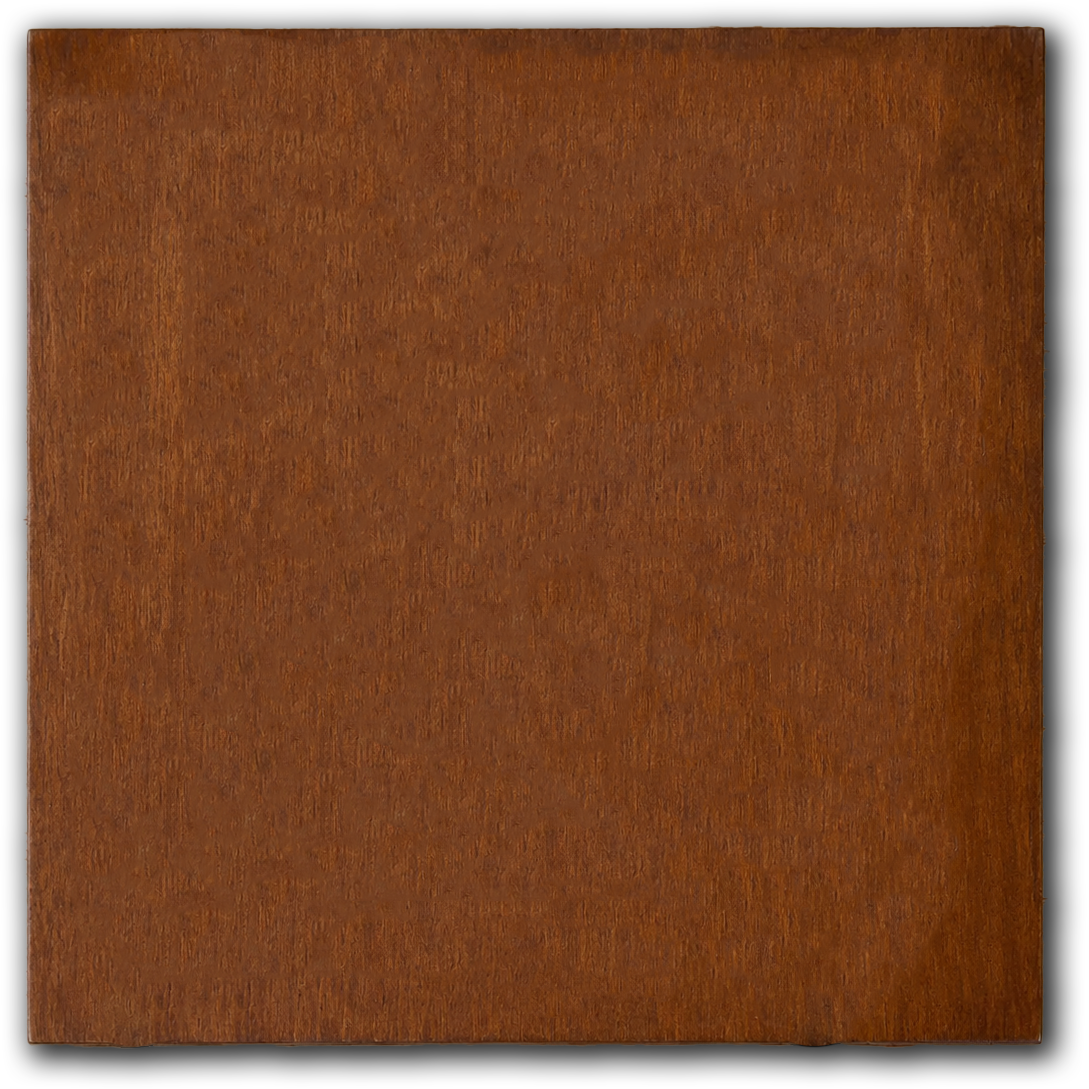
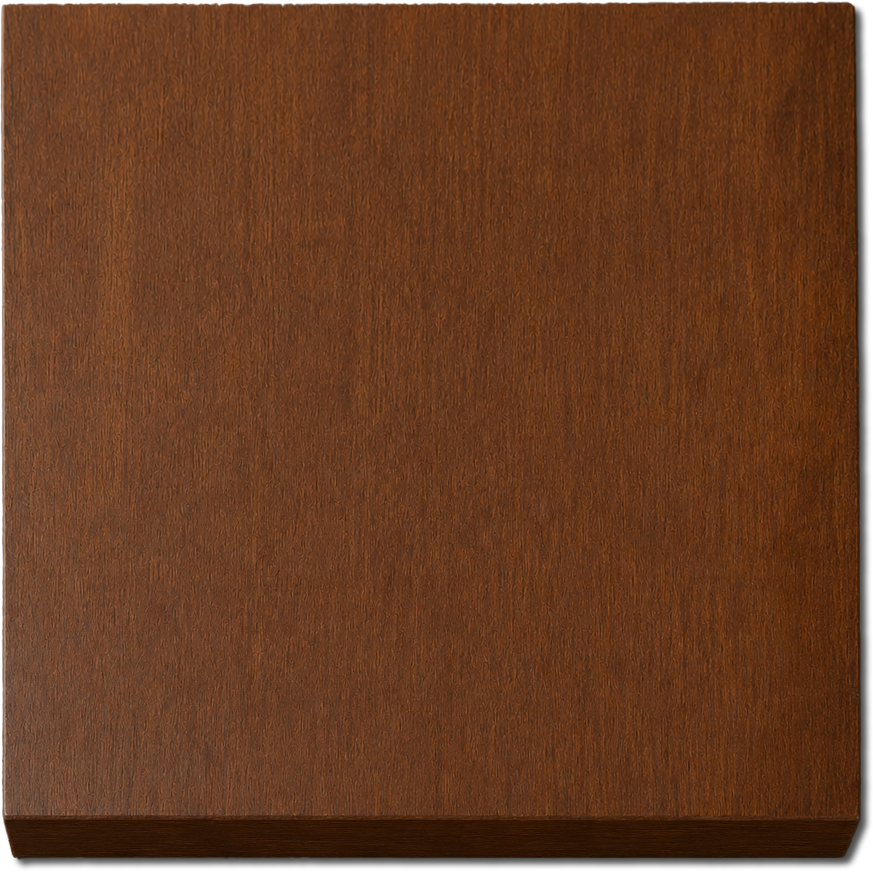
Game board is 3D now

Changed region(s): [[0.0, 0.0, 1.0, 1.0], [0.8969, 0.867, 0.9278, 0.8979], [0.0928, 0.3716, 0.1237, 0.4025]]

diff --git a/UI/Games/NineMensMorrisPage/nine_mens_morris_page.cpp b/UI/Games/NineMensMorrisPage/nine_mens_morris_page.cpp
@@ -205,7 +205,7 @@ void NineMensMorrisPage::paintEvent(QPaintEvent* event) {
     painter.setRenderHint(QPainter::Antialiasing);
     painter.setRenderHint(QPainter::SmoothPixmapTransform, true);
 
-    QRect board_rect(margin_offset - 50, margin_offset - 12, (6 * cell_spacing) + 100, (6 * cell_spacing) + 95);
+    QRect board_rect(margin_offset - 50, margin_offset - 12, (6 * cell_spacing) + 100, (6 * cell_spacing) + 110);
     drawBoardBackground(painter, board_rect, board_background);
 
     painter.setPen(Qt::black);
@@ -248,7 +248,7 @@ void NineMensMorrisPage::paintEvent(QPaintEvent* event) {
 
             painter.setPen(QPen(highlight_color, 3, Qt::SolidLine, Qt::RoundCap, Qt::RoundJoin));
             painter.setBrush(QColor(highlight_color.red(), highlight_color.green(), highlight_color.blue(), 70));
-            painter.drawEllipse(p, POINT_RADIUS + 6, POINT_RADIUS + 6);
+            painter.drawEllipse(p, POINT_RADIUS + 1, POINT_RADIUS + 1);
         }
 
         if (position == selected_position) {

diff --git a/UI/Games/Fanorona/fanorona_page.cpp b/UI/Games/Fanorona/fanorona_page.cpp
@@ -207,7 +207,7 @@ void FanoronaPage::paintEvent(QPaintEvent* event) {
     painter.setRenderHint(QPainter::Antialiasing);
     painter.setRenderHint(QPainter::SmoothPixmapTransform, true);
 
-    QRect board_rect(margin_offset - 90, margin_offset - 105, ((FanoronaBoard::COLS - 1) * cell_spacing) + 180, ((FanoronaBoard::ROWS - 1) * cell_spacing) + 280);
+    QRect board_rect(margin_offset - 40, margin_offset - 10, ((FanoronaBoard::COLS - 1) * cell_spacing) + 90, ((FanoronaBoard::ROWS - 1) * cell_spacing) + 95);
     drawBoardBackground(painter, board_rect, board_background);
 
     painter.setPen(Qt::black);

diff --git a/UI/Games/DotsAndBoxesPage/dots_and_boxes_page.cpp b/UI/Games/DotsAndBoxesPage/dots_and_boxes_page.cpp
@@ -120,7 +120,7 @@ void DotsAndBoxesPage::paintEvent(QPaintEvent *event) {
     painter.setRenderHint(QPainter::Antialiasing);
     painter.setRenderHint(QPainter::SmoothPixmapTransform, true);
 
-    QRect board_rect(margin_offset - 40, margin_offset - 25, (board_size * cell_spacing) + 80, (board_size * cell_spacing) + 80);
+    QRect board_rect(margin_offset - 40, margin_offset - 25, (board_size * cell_spacing) + 80, (board_size * cell_spacing) + 100);
     drawBoardBackground(painter, board_rect, board_background);
 
     painter.setPen(Qt::black);
